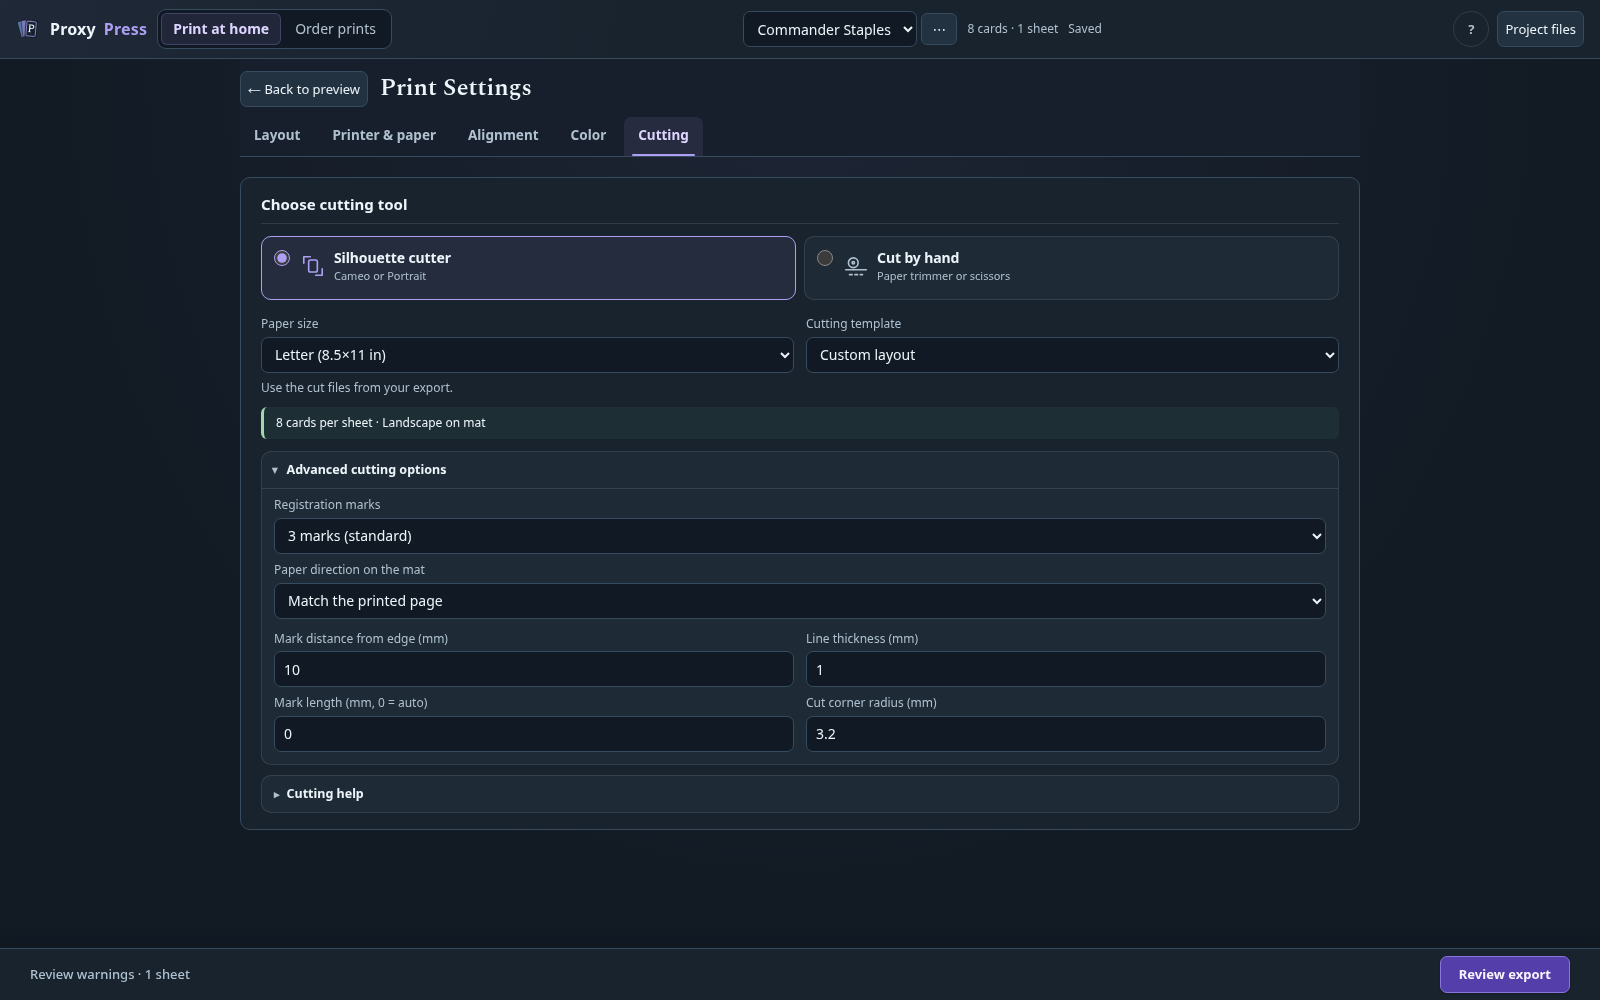
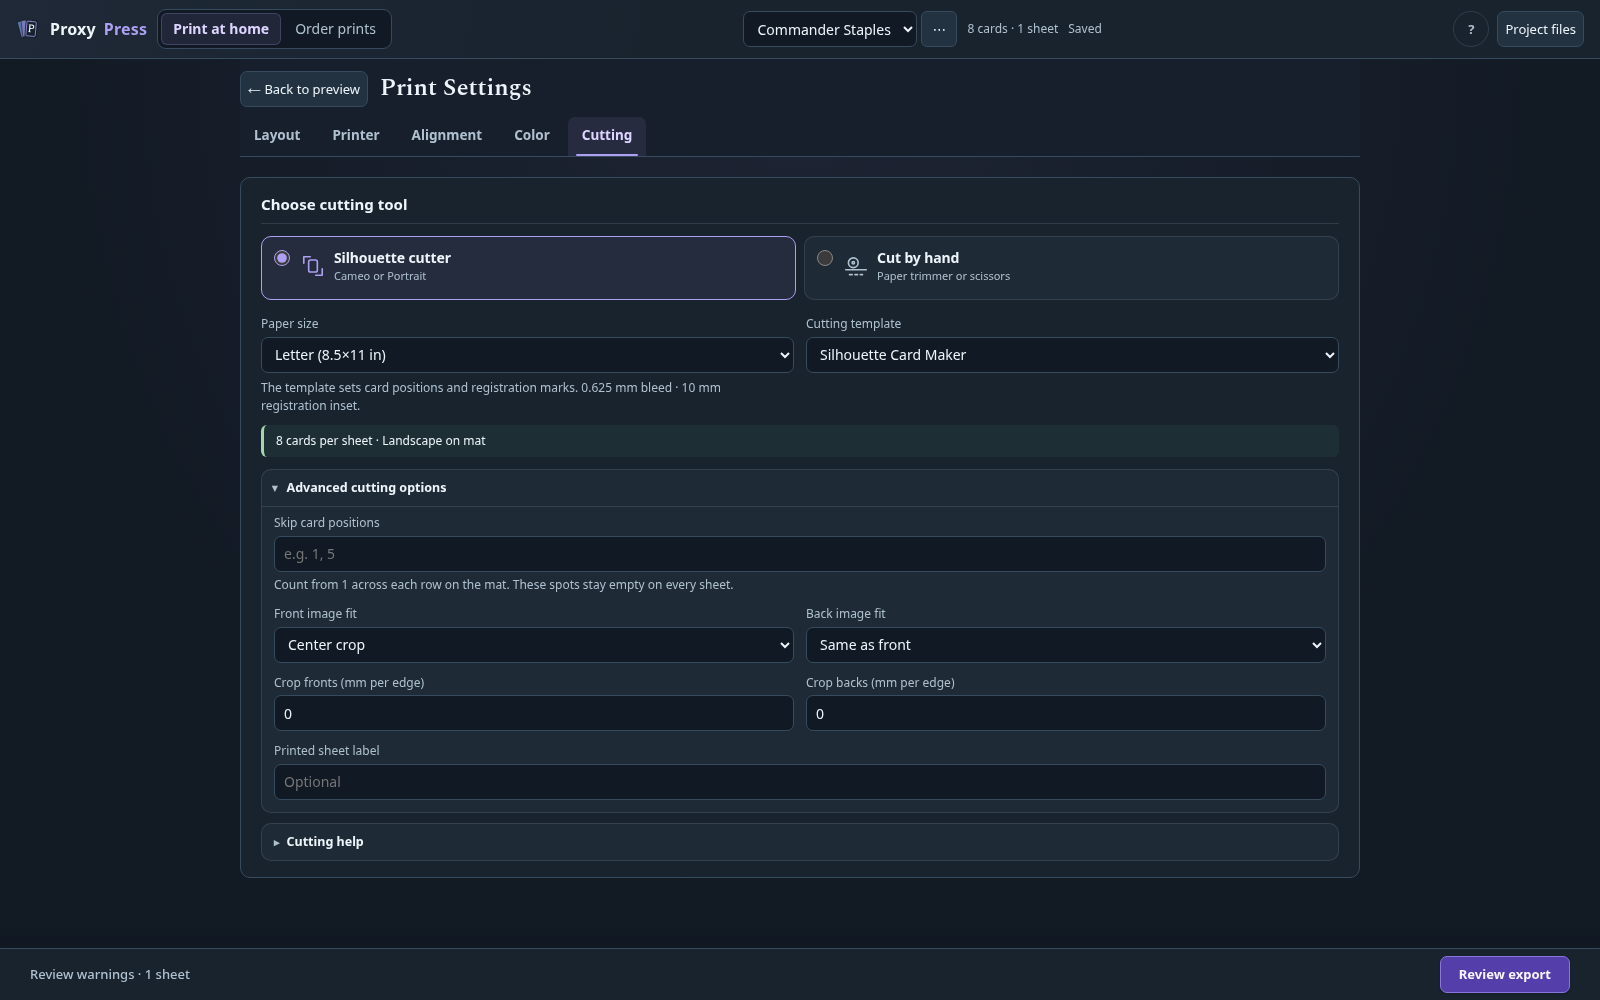
README: shorter, clearer guide with current screenshots
Recapture all four screenshots from the current UI and stop the card
list fixture showing doubled '#' before collector numbers.

diff --git a/tools/take-screenshots.js b/tools/take-screenshots.js
@@ -96,7 +96,7 @@ function createProbe(state, cards, mpcLotus) {
         uid: uid(),
         name: c.name,
         set: c.set,
-        cn: c.cn,
+        cn: c.cn.replace(/^#/, ''),
         scryId: c.scryId,
         qty: 1,
         kind: 'CARD',

diff --git a/README.md b/README.md
@@ -1,21 +1,14 @@
 # Proxy Press
 
-Make Magic: The Gathering proxies from a decklist. Choose artwork, lay out sheets for your printer, or prepare an order for MakePlayingCards.
+Make Magic: The Gathering proxies from a decklist. Pick artwork, print sheets at home, or prepare an order for MakePlayingCards.
 
-![Example card list and print sheet in Proxy Press](screenshots/print-preview.png)
+![Card list and print sheet preview](screenshots/print-preview.png)
 
 ## Install
 
-Open the [latest release](https://github.com/zoro11031/proxypress/releases/latest) and expand **Assets**.
+**Desktop:** download the Windows (`.exe`, `.msi`) or Linux (AppImage, `.deb`, `.rpm`, `.pacman`) package from the [latest release](https://github.com/zoro11031/proxypress/releases/latest). Mark the AppImage executable before running it.
 
-- **Windows x64:** Run the `.exe` installer or the `.msi` package.
-- **Linux x86-64:** Use the AppImage, or choose `.deb` for Debian and Ubuntu, `.rpm` for Fedora and openSUSE, or `.pacman` for Arch. Mark the AppImage executable before launching it.
-
-### Docker
-
-Clone the repository and run `docker compose up -d`. Open `http://localhost:8642` on the server. To reach it from another device, set the server’s LAN address in `PROXY_PRESS_BIND` in `.env`. See [`.env.example`](.env.example) for the password and sharing settings.
-
-To update a local checkout, run:
+**Docker:** clone the repository and run `docker compose up -d`, then open `http://localhost:8642`. To use it from other devices, set `PROXY_PRESS_BIND` in `.env` to the server's LAN address. [`.env.example`](.env.example) lists the password and sharing options. To update:
 
 ```sh
 git pull --ff-only
@@ -24,42 +17,44 @@ docker compose up -d --build
 
 ## Add cards
 
-Paste a decklist, import a Moxfield or Archidekt link, or upload images. Choose **Change art** from a card’s menu to browse printings or community artwork. **Create a card** lets you add your own artwork to a card frame.
+Choose **Add cards** to paste a decklist, import a Moxfield or Archidekt link, or upload images. To swap artwork, choose **Change art** from a card's menu and pick a printing or community art. **Create a card** puts your own art in a card frame.
 
-![Browsing printings and community artwork in Proxy Press](screenshots/art-picker.png)
+![Choosing artwork for a card](screenshots/art-picker.png)
 
 ## Print at home
 
-Choose your paper and card layout in **Print Settings**. Check both sides in the sheet preview, then open **Review export** to download all sheets or pick one to reprint. Print at **Actual size / 100%**. If the backs sit off-center, use **Alignment → Align front and back**.
+1. Set paper, layout and sides in **Print settings**, and check both sides in the sheet preview.
+2. Choose **Review export** and download the PDF.
+3. Print at **Actual size / 100%**.
+
+If the backs are off-centre, use **Alignment → Align front and back**.
 
 ### Silhouette cutters
 
-In **Print Settings → Cutting**, select **Silhouette cutter** and choose your paper size. **Silhouette Card Maker** matches the stock template for the selected paper and card size, including Letter and A4 for standard Magic cards. Borderless is available where a matching template exists. With these templates, use long-edge flip for double-sided printing.
+In **Print settings → Cutting**, choose **Silhouette cutter** and your paper size. The **Silhouette Card Maker** template matches the stock Letter and A4 templates. It turns printed guides off and sets the bleed and registration marks for you. For double-sided sheets, flip on the long edge.
 
-The Silhouette Card Maker layout automatically turns off printed guides, uses 0.625 mm bleed, and takes the registration inset from the selected template (10 mm for standard Letter and A4). The stock template also fixes where each card lands on the page. For a custom layout, use the PDF and cut files from the same export. [Silhouette Card Maker cutting guide](https://alan-cha.github.io/silhouette-card-maker/tutorial/guide/)
+Download the **print & cut ZIP** from **Review export**. It contains the PDF and matching cut files for each sheet. Always cut with the files from the same export. In [Silhouette Control Center](https://github.com/zoro11031/silhouette-cameo-linux), open the ZIP under **Sheet**. In Silhouette Studio, open the Studio file or the DXF; **Cut instructions** has the settings. See also the [Silhouette Card Maker guide](https://alan-cha.github.io/silhouette-card-maker/tutorial/guide/).
 
-![Choosing cutting tools and registration options in Print Settings](screenshots/cutting-workflow.png)
-
-Download the **print & cut ZIP** from **Review export**. It includes the PDF and matching cut files for each sheet. In [Silhouette Control Center](https://github.com/zoro11031/silhouette-cameo-linux), open the ZIP under **Sheet**. In Silhouette Studio, open the Studio file when available or use DXF with the settings under **Cut instructions**.
+![Cutting settings](screenshots/cutting-workflow.png)
 
 ### Foil colors
 
-In **Print Settings → Color**, choose **Foil colors** and print a test sheet on your foil paper. If the result looks dark or muted, adjust brightness, saturation, or contrast. Choose **Save as foil default** to reuse those colors across decks when you select a foil preset.
+In **Print settings → Color**, choose **Foil colors** and print a test sheet on your foil paper. If it comes out dark or muted, raise brightness, saturation or contrast. **Save as foil default** reuses those settings for every foil preset.
 
 ## Order prints
 
-Choose **Order prints → Review order**. Pick cardstock and a shared cardback, then download the order ZIP. Open **How to place the order** for the desktop tool and upload steps.
+Switch to **Order prints** and choose **Review order**. Pick a cardstock and a shared cardback, then download the order ZIP. **How to place the order** walks through the upload.
 
-![Preparing card order in the order gallery](screenshots/order-mode.png)
+![Order gallery](screenshots/order-mode.png)
 
 ## Backups and sharing
 
-Decks save in your browser. Use **Project files** to save a backup or **Share or save a deck copy** in review to export a single deck with artwork.
+Decks are saved in your browser. **Project files** saves a backup of everything. **Share or save a deck copy** exports one deck with its artwork.
 
-On a self-hosted instance, you can create a share link. Anyone with the link can open the shared copy. Match an uploaded image to a card if you want to make that artwork searchable by others on the same server.
+On a self-hosted server you can also **Create share link**, and anyone with the link can open that copy. Artwork you upload and match to a card becomes searchable for other users on the same server.
 
 ## Credits and license
 
-Thanks to [MPC Autofill](https://mpcfill.com), [Scryfall](https://scryfall.com), [EDHREC](https://edhrec.com), and [Silhouette Card Maker](https://github.com/Alan-Cha/silhouette-card-maker). You can [support MPC Autofill on Patreon](https://www.patreon.com/mpcfill).
+Thanks to [MPC Autofill](https://mpcfill.com) ([Patreon](https://www.patreon.com/mpcfill)), [Scryfall](https://scryfall.com), [EDHREC](https://edhrec.com) and [Silhouette Card Maker](https://github.com/Alan-Cha/silhouette-card-maker).
 
-Proxy Press is licensed under [GPL-3.0-or-later](LICENSE). Card art, fonts, frames, and trademarks belong to their respective owners and are subject to their own rights.
+Licensed under [GPL-3.0-or-later](LICENSE). Card art, fonts, frames and trademarks belong to their owners.
